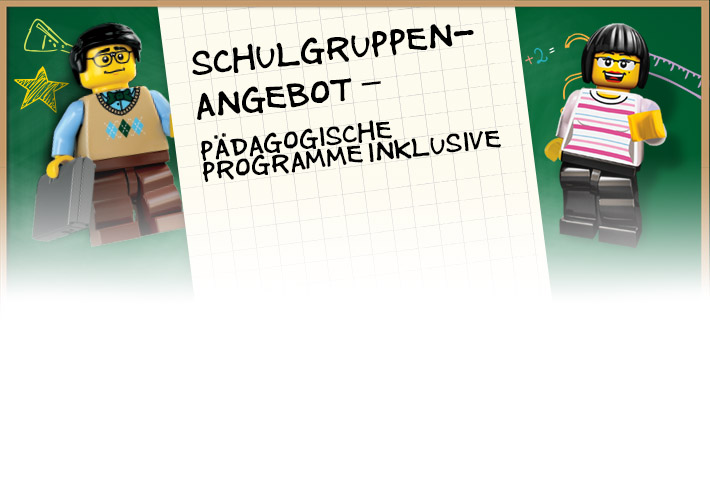
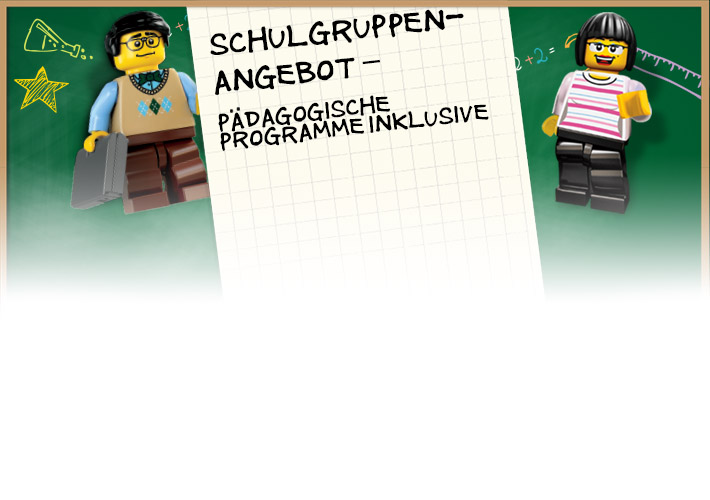
g

Changed region(s): [[0.031, 0.0, 0.9606, 0.57]]

diff --git a/lpo.css b/lpo.css
@@ -44,6 +44,18 @@ background: url(http://lldgit.github.io/Schulgruppen/header_education_workshop_8
 background: url(http://lldgit.github.io/Schulgruppen/header_schul.jpg) no-repeat;
 }
 
+.lpo_innerbg_weitere_themen {
+background: url(http://lldgit.github.io/Schulgruppen/header_education_weitere_themen_710x500.jpg) no-repeat;
+}
+
+.lpo_innerbg_wissenswelten2 {
+background: url(http://lldgit.github.io/Schulgruppen/header_education_wisenswelten_710x500.jpg) no-repeat;
+}
+
+
+.lpo_innerbg_paedag_programm {
+background: url(http://lldgit.github.io/Schulgruppen/Padag_Programme.jpg) no-repeat;
+}
 
 
 .lpo_innerbg_gruppen {
